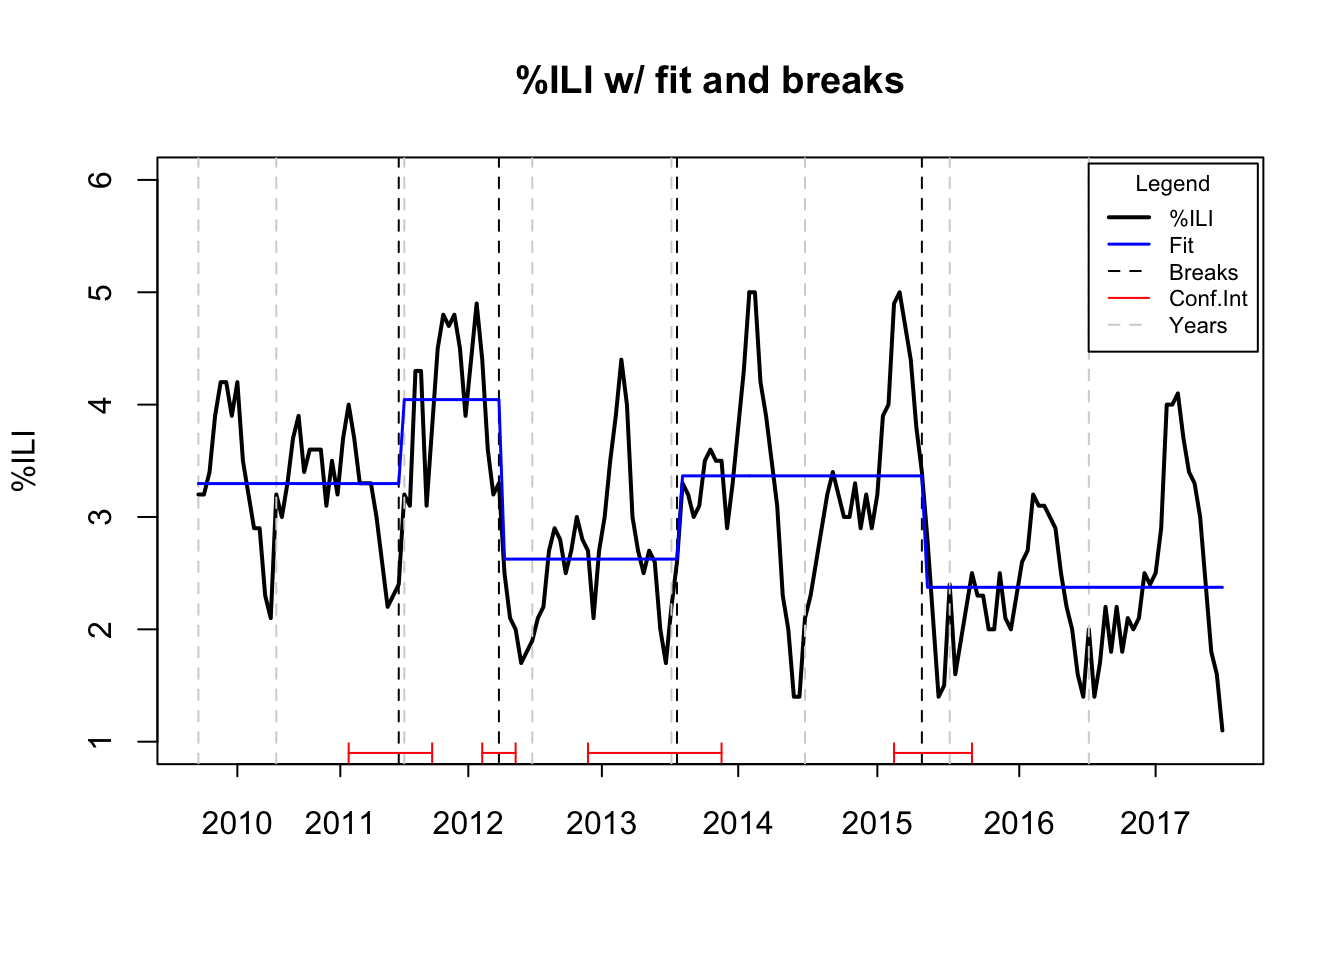
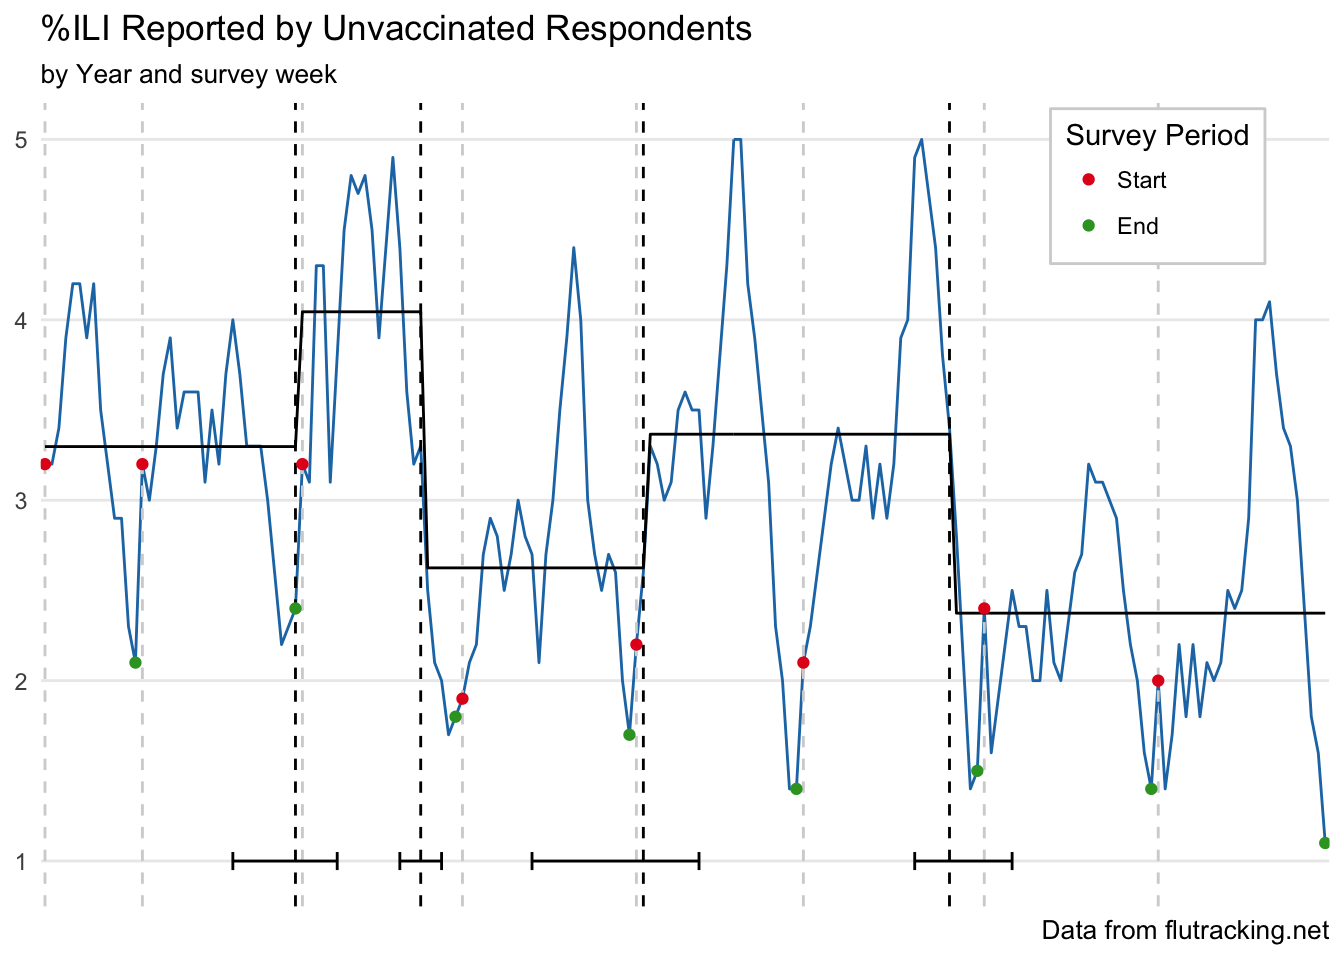
Redid some graphs using ggplot2

diff --git a/content/post/2017-11-17-chow-s-test.html b/content/post/2017-11-17-chow-s-test.html
@@ -16,7 +16,7 @@ tags:
 <div id="unvaccinated-repsondents-data" class="section level2">
 <h2>Unvaccinated Repsondents Data</h2>
 <p><img src="/post/2017-11-17-chow-s-test_files/figure-html/plotTotal-1.png" width="672" /></p>
-<p>Now I’ll use the strucchange package to test for breaks. I’ll fill out the detail of what is happening here later.</p>
+<p>Now I’ll use the strucchange package to test for breaks. To test for breaks we fit a basic linear model: <code>lm(ILIts ~ 1)</code> where <code>ILIts</code> is the time series plotted abouve.</p>
 <pre><code>## 
 ## Call:
 ## lm(formula = ILIts ~ 1)
